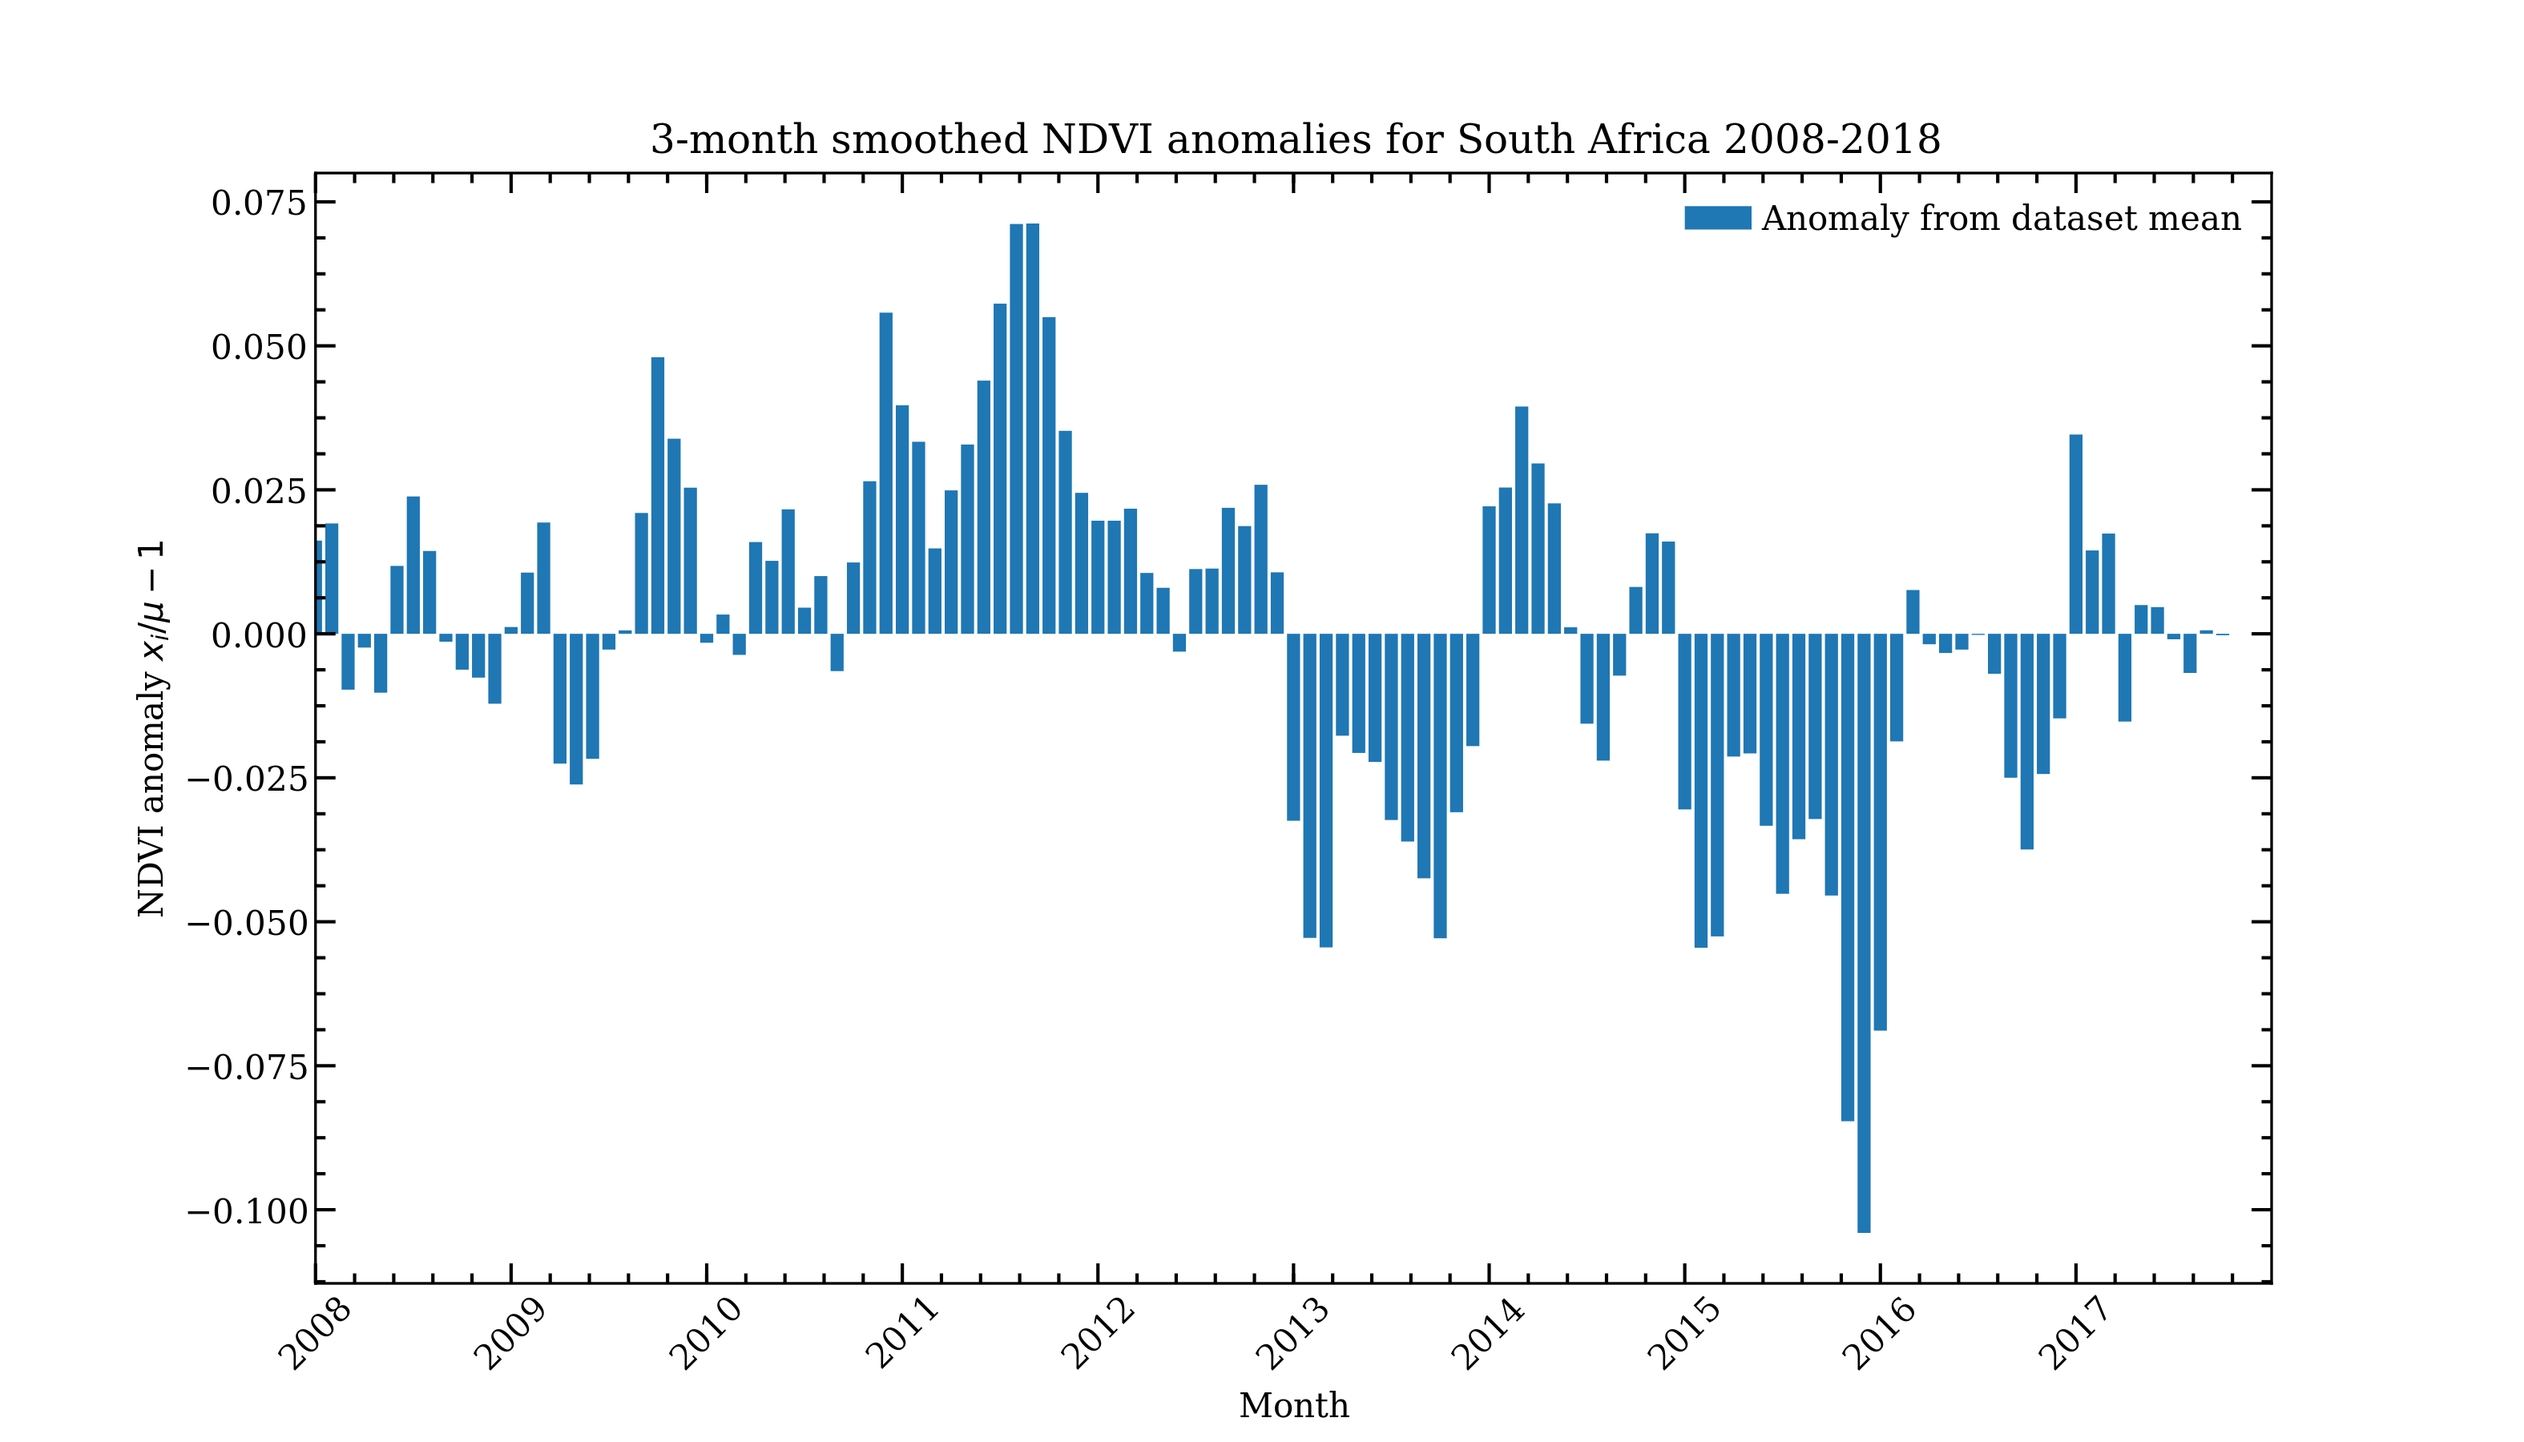
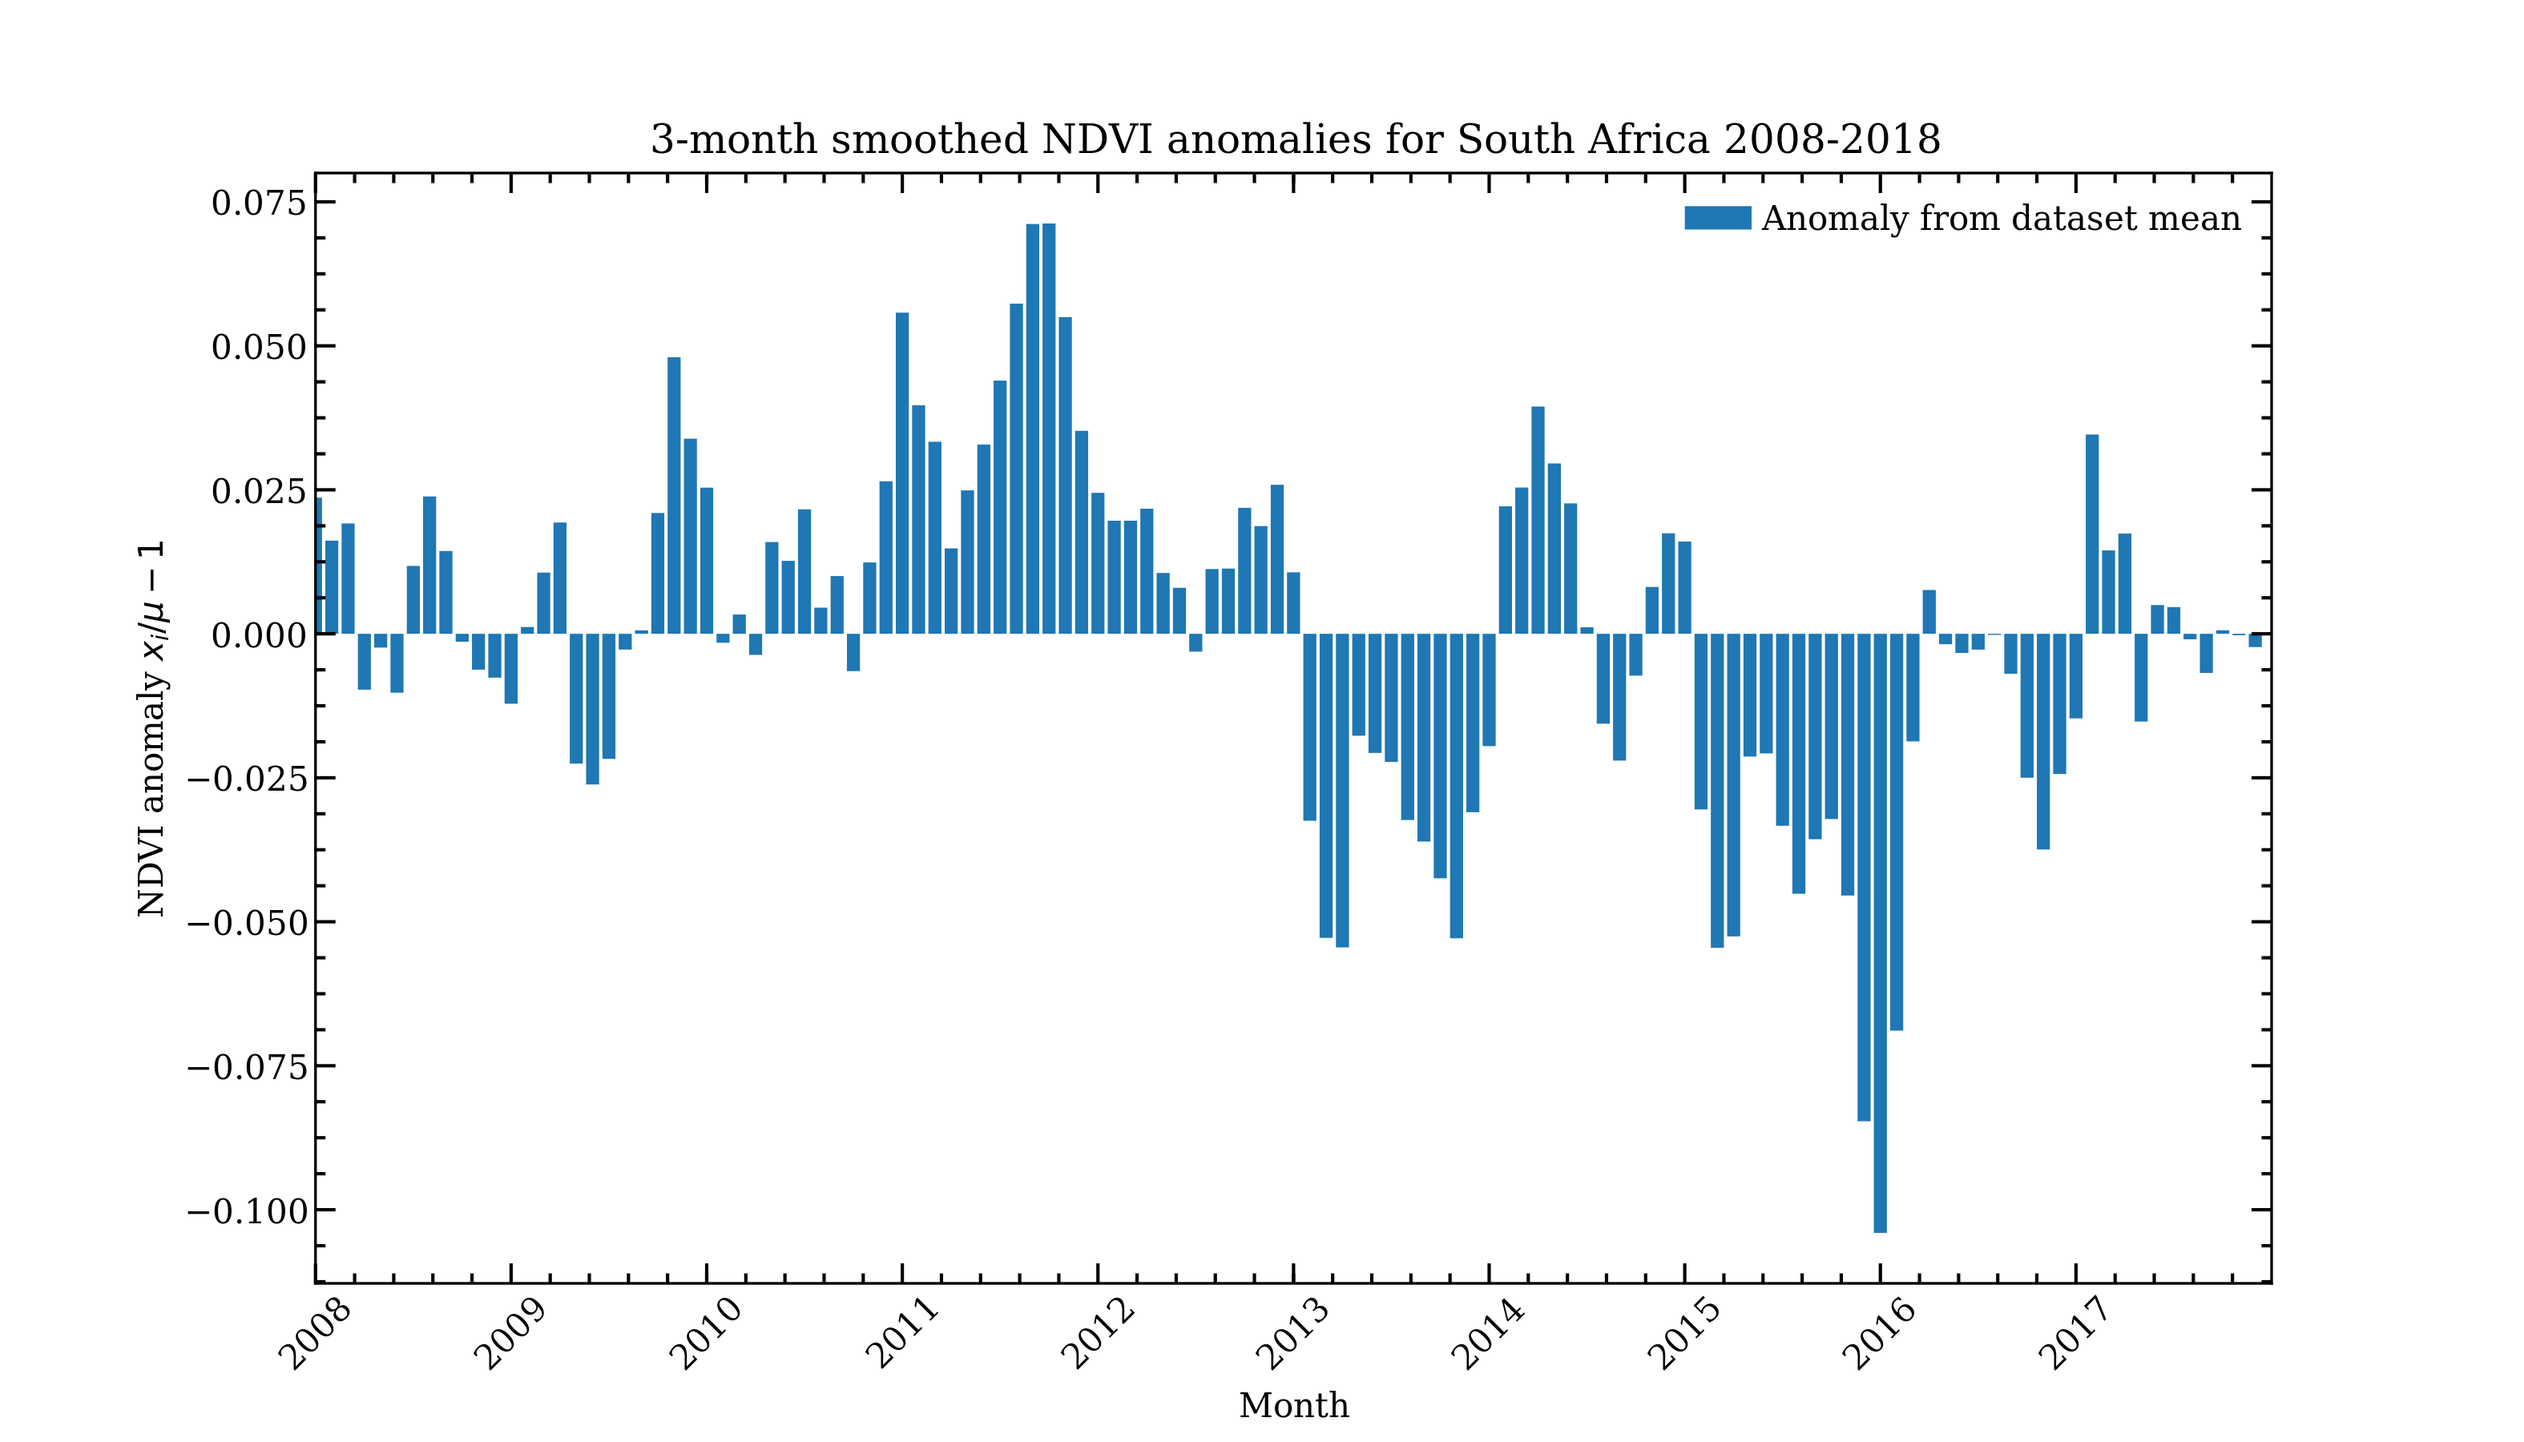
Add 5 month stuff

Changed region(s): [[0.4356, 0.28, 0.9022, 0.8711], [0.1244, 0.1556, 0.4356, 0.56]]

diff --git a/code/ndvi_analysis.py b/code/ndvi_analysis.py
@@ -249,7 +249,7 @@ def plot_ndvi_with_dmi(region, smooth=6):
     plt.axhline(y=0.5, linewidth=0.75, color='k', linestyle='dashed')
     plt.axhline(y=-0.5, linewidth=0.75, color='k', linestyle='dashed')
     plt.savefig(figure_dir + 'ndvi_dmi_{}_smoothed_{}.png'.format(region, smooth))
-    plt.show()
+    # plt.show()
 
     return None
 
@@ -283,14 +283,14 @@ def plot_ndvi_with_oni(region, smooth=6):
     plt.axhline(y=0.5, linewidth=0.75, color='k', linestyle='dashed')
     plt.axhline(y=-0.5, linewidth=0.75, color='k', linestyle='dashed')
     plt.savefig(figure_dir + 'ndvi_oni_{}_smoothed_{}.png'.format(region, smooth))
-    plt.show()
+    # plt.show()
 
     return None
 
 
 def do_analysis():
     regions = ('capetown', 'eastafrica')
-    smoothings = (3, 6, 12)
+    smoothings = (3, 5, 6, 12)
 
     for region in regions:
         plot_ndvi_monthly_and_means(region)
